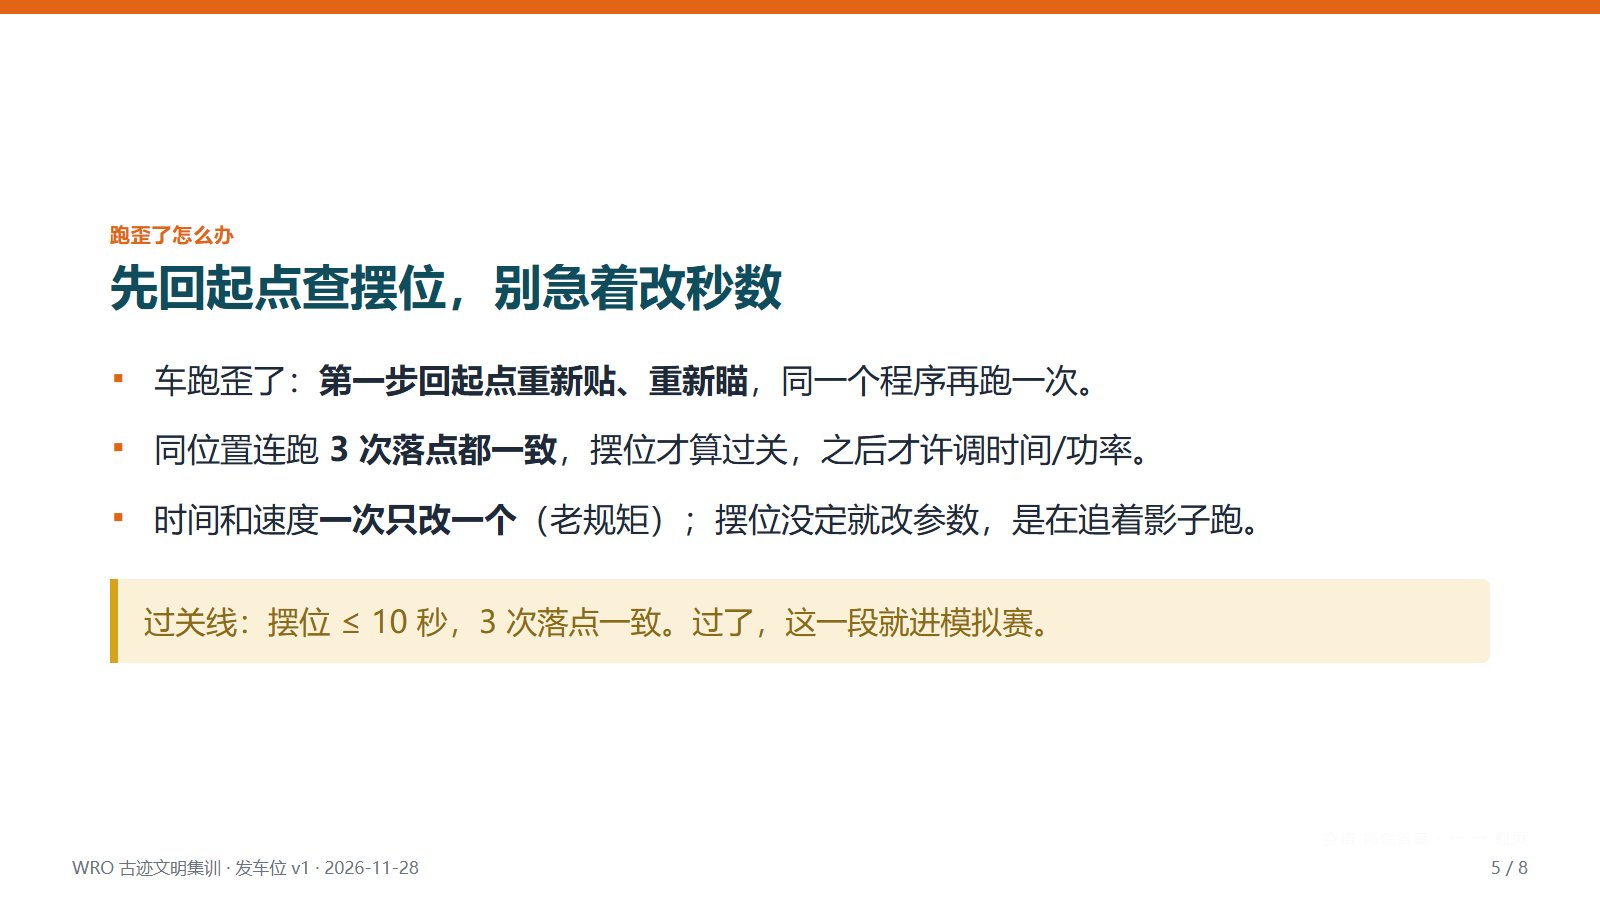
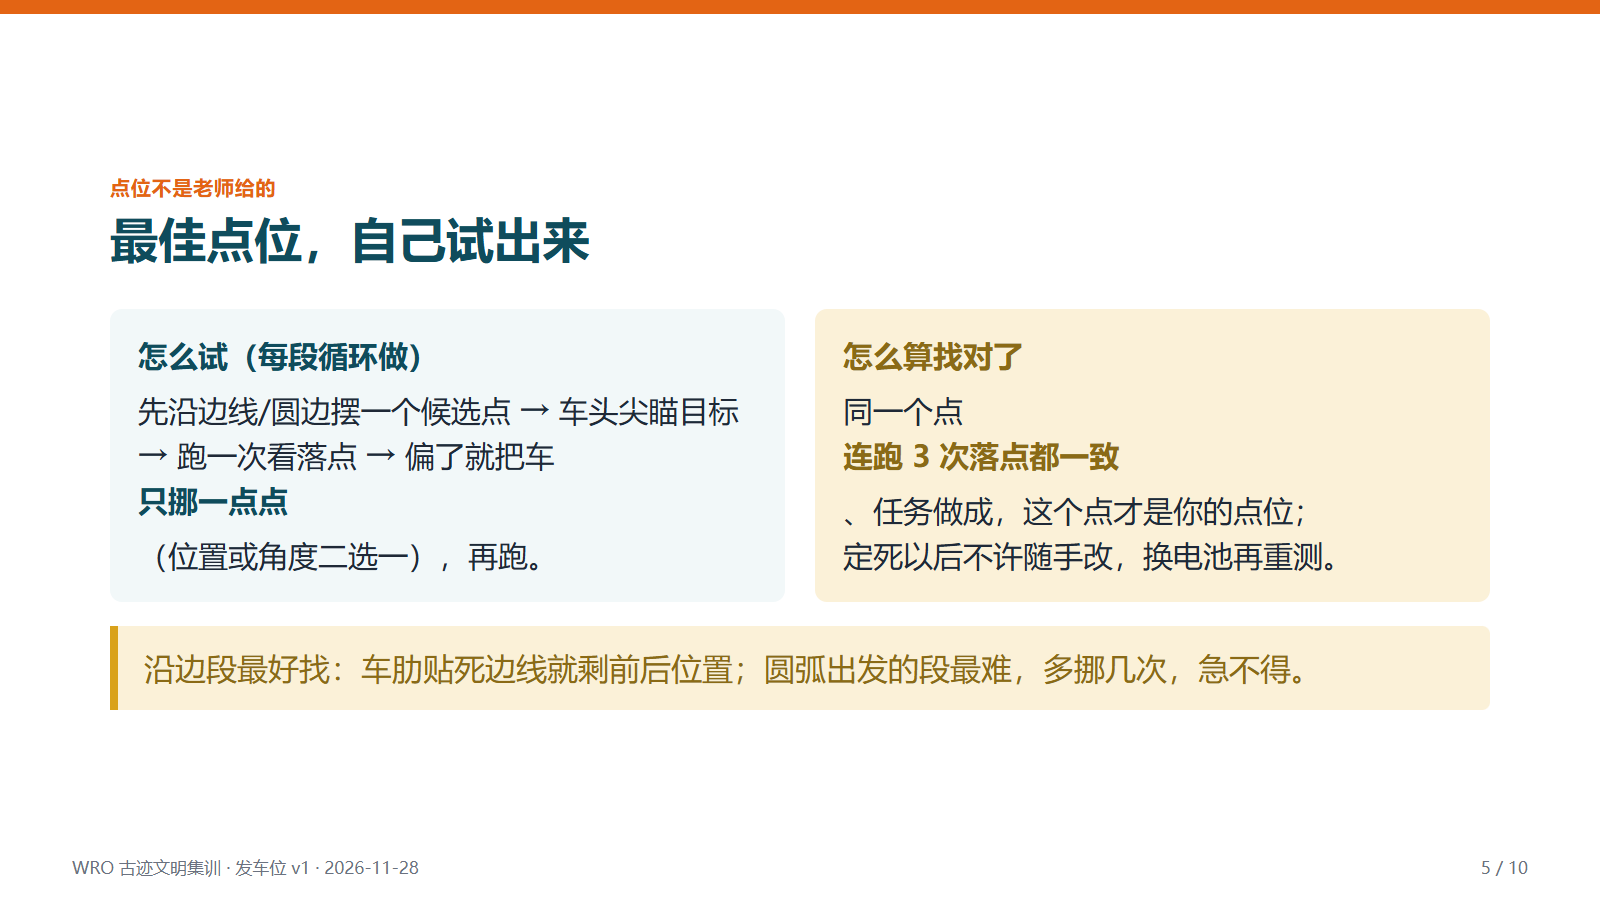
wro08 v2:补复习三问+收尾三问;点位改学生自己试(去掉A-I固定点);L胶带移出课件(仅教师备选思路);分工不提能力差异

Changed region(s): [[0.0625, 0.3422, 0.9375, 0.8089], [0.0625, 0.1867, 0.5, 0.3422]]

diff --git a/wro08.html b/wro08.html
@@ -22,6 +22,7 @@
   li:before{content:"▪";position:absolute;left:2px;top:-2px;color:#E36414;font-weight:700}
   .hint{font-size:31px;line-height:1.55;color:#8A6A16;background:#FBF1D8;
     border-left:8px solid #D9A21B;padding:18px 26px;margin:16px 0;border-radius:0 8px 8px 0}
+  .q .n{color:#E36414;font-weight:700;margin-right:14px}
   .ans{font-size:33px;line-height:1.5;color:#0F4C5C;background:#F2F8F9;
     border-left:8px solid #E36414;padding:18px 26px;margin:10px 0 18px 26px;border-radius:0 8px 8px 0}
   .cols{display:flex;gap:30px;margin-top:8px}
@@ -91,12 +92,24 @@
       <path d="M60 200 L150 150 L240 100" stroke="#BFD9DF" stroke-width="5" stroke-dasharray="10 8"/>
       <rect x="132" y="138" width="40" height="24" rx="4" fill="#E36414"/>
       <path d="M172 150 L188 142 L188 158 z" fill="#BFD9DF"/>
-      <path d="M120 210 h28 M120 210 v-28" stroke="#F5C518" stroke-width="9" stroke-linecap="round"/>
       <circle cx="240" cy="100" r="12" fill="#BFD9DF"/>
     </svg>
   </section>
 
-  <!-- 2 问题演示 -->
+  <!-- 2 复习三问 -->
+  <section class="slide">
+    <div class="bar"></div>
+    <div class="kicker">复习 · 上几节课</div>
+    <h1>三个问题</h1>
+    <div class="q"><span class="n">Q1</span>11 段路线分别从哪三个安全区出发？</div>
+    <div class="ans reveal">奇琴伊察（红 ①②⑥）、万神殿（蓝 ③④⑤）、吴哥窟/舒什塔尔（绿 ⑦–⑪）。</div>
+    <div class="q"><span class="n">Q2</span>调参数时，时间和速度两个数，一次改几个？</div>
+    <div class="ans reveal">一次只改一个，改完连跑 3 次看结果，不许两个数一起动。</div>
+    <div class="q"><span class="n">Q3</span>程序完全没动，两次跑的落点却不一样，最可能是什么变了？</div>
+    <div class="ans reveal">起点——车摆的位置和车头角度。今天就解决它。</div>
+  </section>
+
+  <!-- 3 问题演示 -->
   <section class="slide">
     <div class="bar"></div>
     <div class="kicker">先看一个现象</div>
@@ -131,24 +144,24 @@
     <div class="hint" style="margin-top:24px">摆好以后不许再碰车；按启动的人固定同一个人，同一姿势。</div>
   </section>
 
-  <!-- 4 胶带与天然参照 -->
+  <!-- 4 点位是试出来的 -->
   <section class="slide">
     <div class="bar"></div>
-    <div class="kicker">练习期的笨办法，最有效</div>
-    <h1>先贴 L 形美纹纸，练熟再撕掉</h1>
+    <div class="kicker">点位不是老师给的</div>
+    <h1>最佳点位，自己试出来</h1>
     <div class="cols">
-      <div class="card warn">
-        <b>练习时（可以贴）</b>
-        每个起点地上贴 L 形美纹纸：车屁股贴一条边、一个轮子贴另一条边，<b>一推到位，零思考</b>。
-        圆弧安全区出发的段，全靠它锁位置。
-      </div>
       <div class="card">
-        <b>比赛时（不能留）</b>
-        撕掉胶带，改贴场地天然的线和角；沿边段直接贴边线。
-        撕掉前把「车在圆边的哪个位置」记进脑子和路线图。
+        <b>怎么试（每段循环做）</b>
+        先沿边线/圆边摆一个候选点 → 车头尖瞄目标 → 跑一次看落点 →
+        偏了就把车<b>只挪一点点</b>（位置或角度二选一），再跑。
+      </div>
+      <div class="card warn">
+        <b>怎么算找对了</b>
+        同一个点<b>连跑 3 次落点都一致</b>、任务做成，这个点才是你的点位；<br>
+        定死以后不许随手改，换电池再重测。
       </div>
     </div>
-    <div class="hint reveal" style="margin-top:24px">顺序不能反：先靠胶带练出一模一样的摆法，再撕胶带复刻——不是一开始就凭感觉。</div>
+    <div class="hint" style="margin-top:24px">沿边段最好找：车肋贴死边线就剩前后位置；圆弧出发的段最难，多挪几次，急不得。</div>
   </section>
 
   <!-- 5 判断规则 -->
@@ -164,11 +177,11 @@
     <div class="hint">过关线：摆位 ≤ 10 秒，3 次落点一致。过了，这一段就进模拟赛。</div>
   </section>
 
-  <!-- 6 十一个发车位总览 -->
+  <!-- 6 十一段出发点+瞄准参考 -->
   <section class="slide pad" style="padding-top:44px;padding-bottom:40px">
     <div class="bar"></div>
-    <div class="kicker" style="margin-bottom:6px">11 个发车位（草表，练习时对真场地微调胶带点）</div>
-    <h1 style="font-size:34px;margin-bottom:12px">贴哪、瞄哪，一段一张图</h1>
+    <div class="kicker" style="margin-bottom:6px">11 段的出发点和瞄准目标（具体点位，自己在边线/圆边上试出来）</div>
+    <h1 style="font-size:34px;margin-bottom:12px">从哪个区出发，车头瞄什么</h1>
     <div class="poswrap">
       <!-- 红组 -->
       <div class="poscol cR">
@@ -185,27 +198,19 @@
           <text x="223" y="305" text-anchor="middle" font-size="12" font-weight="700" fill="#B45309">球2</text>
           <rect x="168" y="395" width="14" height="11" fill="#C9971B" stroke="#7C5A08"/>
           <text x="190" y="422" font-size="11" fill="#7C5A08">奖杯</text>
-          <path d="M118 356 L138 296" stroke="#D64545" stroke-width="2" stroke-dasharray="6 5"/>
-          <path d="M126 372 L203 292" stroke="#D64545" stroke-width="2" stroke-dasharray="6 5"/>
-          <path d="M162 372 L178 396" stroke="#D64545" stroke-width="2" stroke-dasharray="6 5"/>
-          <g fill="none" stroke="#F5C518" stroke-width="6" stroke-linecap="round">
-            <path d="M96 344 h26 M96 344 v26"/>
-            <path d="M104 360 h26 M104 360 v26"/>
-            <path d="M146 350 h24 M146 350 v22"/>
-          </g>
-          <g font-weight="700" font-size="16" fill="#D64545">
-            <circle cx="96" cy="344" r="13" fill="#D64545"/><text x="96" y="350" text-anchor="middle" fill="#fff" font-size="14">1</text>
-            <circle cx="104" cy="360" r="13" fill="#D64545"/><text x="104" y="366" text-anchor="middle" fill="#fff" font-size="14">2</text>
-            <circle cx="186" cy="420" r="13" fill="#D64545"/><text x="186" y="426" text-anchor="middle" fill="#fff" font-size="14">6</text>
-          </g>
-          <g font-size="14" font-weight="700" fill="#B8860B">
-            <text x="66" y="330">A</text><text x="138" y="392">B</text><text x="178" y="348">E</text>
+          <path d="M104 352 L138 296" stroke="#D64545" stroke-width="2.5" stroke-dasharray="7 5"/>
+          <path d="M112 372 L203 292" stroke="#D64545" stroke-width="2.5" stroke-dasharray="7 5"/>
+          <path d="M150 372 L176 398" stroke="#D64545" stroke-width="2.5" stroke-dasharray="7 5"/>
+          <g font-weight="700">
+            <circle cx="100" cy="348" r="13" fill="#D64545"/><text x="100" y="354" text-anchor="middle" fill="#fff" font-size="14">1</text>
+            <circle cx="108" cy="368" r="13" fill="#D64545"/><text x="108" y="374" text-anchor="middle" fill="#fff" font-size="14">2</text>
+            <circle cx="150" cy="368" r="13" fill="#D64545"/><text x="150" y="374" text-anchor="middle" fill="#fff" font-size="14">6</text>
           </g>
         </svg>
         <div class="poslist">
-          <div class="row"><span class="tag">1</span><span><span class="t1">贴胶带 A</span> <span class="t2">· 瞄球1圆心，直进推出、倒回</span></span></div>
-          <div class="row"><span class="tag">2</span><span><span class="t1">贴胶带 B</span> <span class="t2">· 瞄球2圆心，同①换球门</span></span></div>
-          <div class="row"><span class="tag">6</span><span><span class="t1">贴胶带 E</span> <span class="t2">· 瞄奖杯，两球落地后贴地慢推，杯要直立</span></span></div>
+          <div class="row"><span class="tag">1</span><span><span class="t1">奇圆内找点</span> <span class="t2">· 车头尖瞄球1圆心，直进推出、倒回</span></span></div>
+          <div class="row"><span class="tag">2</span><span><span class="t1">奇圆内找点</span> <span class="t2">· 瞄球2圆心，同①换球门</span></span></div>
+          <div class="row"><span class="tag">6</span><span><span class="t1">奇圆内找点</span> <span class="t2">· 瞄奖杯，两球落地后贴地慢推，杯要直立</span></span></div>
         </div>
       </div>
       <!-- 蓝组 -->
@@ -220,29 +225,24 @@
           <circle cx="58" cy="58" r="62" fill="#fff" fill-opacity=".85" stroke="#E36414" stroke-width="3"/>
           <text x="58" y="54" text-anchor="middle" font-size="15" font-weight="700" fill="#0F4C5C">万神殿</text>
           <circle cx="58" cy="392" r="62" fill="#fff" fill-opacity=".7" stroke="#E36414" stroke-width="2" stroke-dasharray="6 5"/>
+          <text x="58" y="388" text-anchor="middle" font-size="14" font-weight="700" fill="#0F4C5C">奇琴伊察</text>
           <rect x="168" y="121" width="12" height="12" fill="#B8A98F" stroke="#6E6250"/>
           <text x="186" y="131" font-size="11" fill="#6E6250">石柱</text>
-          <path d="M72 330 L72 122" stroke="#3B6FB6" stroke-width="2.5"/>
-          <path d="M104 100 L162 122" stroke="#3B6FB6" stroke-width="2" stroke-dasharray="6 5"/>
-          <path d="M110 104 L250 192" stroke="#3B6FB6" stroke-width="2" stroke-dasharray="6 5"/>
-          <rect x="2" y="318" width="14" height="24" fill="none" stroke="#F5C518" stroke-width="5"/>
-          <g fill="none" stroke="#F5C518" stroke-width="6" stroke-linecap="round">
-            <path d="M92 92 h24 M92 92 v22"/>
-            <path d="M118 110 h24 M118 110 v-20"/>
-          </g>
-          <g font-weight="700" fill="#3B6FB6">
+          <path d="M72 330 L72 122" stroke="#3B6FB6" stroke-width="3"/>
+          <path d="M104 100 L162 122" stroke="#3B6FB6" stroke-width="2.5" stroke-dasharray="7 5"/>
+          <path d="M110 104 L250 192" stroke="#3B6FB6" stroke-width="2.5" stroke-dasharray="7 5"/>
+          <rect x="1" y="315" width="12" height="30" fill="none" stroke="#3B6FB6" stroke-width="4"/>
+          <g font-weight="700">
             <circle cx="58" cy="225" r="13" fill="#3B6FB6"/><text x="58" y="231" text-anchor="middle" fill="#fff" font-size="14">3</text>
             <circle cx="132" cy="92" r="13" fill="#3B6FB6"/><text x="132" y="98" text-anchor="middle" fill="#fff" font-size="14">4</text>
             <circle cx="186" cy="140" r="13" fill="#3B6FB6"/><text x="186" y="146" text-anchor="middle" fill="#fff" font-size="14">5</text>
           </g>
-          <g font-size="14" font-weight="700" fill="#B8860B">
-            <text x="24" y="356">边线</text><text x="122" y="80">C</text><text x="150" y="100">D</text>
-          </g>
+          <text x="22" y="362" font-size="13" font-weight="700" fill="#3B6FB6">左边线</text>
         </svg>
         <div class="poslist">
-          <div class="row"><span class="tag">3</span><span><span class="t1">车左肋贴死左边线</span> <span class="t2">· 边与线平行，直上到万神殿</span></span></div>
-          <div class="row"><span class="tag">4</span><span><span class="t1">贴胶带 C</span> <span class="t2">· 瞄石柱，伸臂勾、倒带回、柱直立</span></span></div>
-          <div class="row"><span class="tag">5</span><span><span class="t1">贴胶带 D</span> <span class="t2">· 带珍宝瞄博物馆圈中心直进</span></span></div>
+          <div class="row"><span class="tag">3</span><span><span class="t1">车左肋贴死左边线</span> <span class="t2">· 边与线平行，只剩前后要试，直上万神殿</span></span></div>
+          <div class="row"><span class="tag">4</span><span><span class="t1">万圆内找点</span> <span class="t2">· 瞄石柱，伸臂勾、倒带回、柱直立</span></span></div>
+          <div class="row"><span class="tag">5</span><span><span class="t1">万圆内找点</span> <span class="t2">· 带珍宝瞄博物馆圈中心直进</span></span></div>
         </div>
       </div>
       <!-- 绿组 -->
@@ -267,39 +267,31 @@
           <g fill="#F5C518" stroke="#8A6A16" stroke-width="1.2">
             <circle cx="575" cy="30" r="7"/><circle cx="586" cy="78" r="7"/>
           </g>
-          <path d="M496 356 L460 344" stroke="#3E8E55" stroke-width="2" stroke-dasharray="6 5"/>
-          <path d="M500 338 L522 186" stroke="#3E8E55" stroke-width="2" stroke-dasharray="6 5"/>
-          <path d="M582 332 L582 120" stroke="#3E8E55" stroke-width="2.5"/>
-          <path d="M498 98 L372 90" stroke="#3E8E55" stroke-width="2" stroke-dasharray="6 5"/>
-          <path d="M492 106 L368 190" stroke="#3E8E55" stroke-width="2" stroke-dasharray="6 5"/>
-          <rect x="586" y="318" width="12" height="24" fill="none" stroke="#F5C518" stroke-width="5"/>
-          <g fill="none" stroke="#F5C518" stroke-width="6" stroke-linecap="round">
-            <path d="M484 348 h22 M484 348 v-20"/>
-            <path d="M498 322 h20 M498 322 v-20"/>
-            <path d="M492 96 h-22 M492 96 v22"/>
-            <path d="M472 128 h-20 M472 128 v-18"/>
-          </g>
-          <g font-weight="700" fill="#3E8E55">
+          <path d="M496 356 L460 344" stroke="#3E8E55" stroke-width="2.5" stroke-dasharray="7 5"/>
+          <path d="M500 338 L522 186" stroke="#3E8E55" stroke-width="2.5" stroke-dasharray="7 5"/>
+          <path d="M582 332 L582 120" stroke="#3E8E55" stroke-width="3"/>
+          <path d="M498 98 L372 90" stroke="#3E8E55" stroke-width="2.5" stroke-dasharray="7 5"/>
+          <path d="M492 106 L368 190" stroke="#3E8E55" stroke-width="2.5" stroke-dasharray="7 5"/>
+          <rect x="587" y="315" width="12" height="30" fill="none" stroke="#3E8E55" stroke-width="4"/>
+          <g font-weight="700">
             <circle cx="480" cy="330" r="12" fill="#3E8E55"/><text x="480" y="335" text-anchor="middle" fill="#fff" font-size="13">7</text>
             <circle cx="486" cy="252" r="12" fill="#3E8E55"/><text x="486" y="257" text-anchor="middle" fill="#fff" font-size="13">8</text>
             <circle cx="586" cy="300" r="12" fill="#3E8E55"/><text x="586" y="305" text-anchor="middle" fill="#fff" font-size="13">9</text>
             <circle cx="440" cy="66" r="12" fill="#3E8E55"/><text x="440" y="71" text-anchor="middle" fill="#fff" font-size="13">10</text>
             <circle cx="420" cy="150" r="12" fill="#3E8E55"/><text x="420" y="155" text-anchor="middle" fill="#fff" font-size="13">11</text>
           </g>
-          <g font-size="13" font-weight="700" fill="#B8860B">
-            <text x="512" y="366">F</text><text x="524" y="316">G</text><text x="500" y="92">H</text><text x="442" y="122">I</text><text x="560" y="106">边线</text>
-          </g>
+          <text x="556" y="362" font-size="13" font-weight="700" fill="#3E8E55">右边线</text>
         </svg>
         <div class="poslist">
-          <div class="row"><span class="tag">7</span><span><span class="t1">贴胶带 F</span> <span class="t2">· 瞄湖泊标记，原套路倒回</span></span></div>
-          <div class="row"><span class="tag">8</span><span><span class="t1">贴溪边胶带 G</span> <span class="t2">· 瞄闸1洋红块推离水道</span></span></div>
-          <div class="row"><span class="tag">9</span><span><span class="t1">车右肋贴死右边线</span> <span class="t2">· 直上到舒什塔尔</span></span></div>
-          <div class="row"><span class="tag">10</span><span><span class="t1">贴胶带 H</span> <span class="t2">· 瞄闸2洋红块，水车别碰</span></span></div>
-          <div class="row"><span class="tag">11</span><span><span class="t1">贴胶带 I</span> <span class="t2">· 带珍宝瞄博物馆圈直进</span></span></div>
+          <div class="row"><span class="tag">7</span><span><span class="t1">吴圆内找点</span> <span class="t2">· 瞄湖泊标记，原套路倒回</span></span></div>
+          <div class="row"><span class="tag">8</span><span><span class="t1">吴圆内找点</span> <span class="t2">· 沿边上去瞄闸1洋红块，推离水道</span></span></div>
+          <div class="row"><span class="tag">9</span><span><span class="t1">车右肋贴死右边线</span> <span class="t2">· 只剩前后要试，直上舒什塔尔</span></span></div>
+          <div class="row"><span class="tag">10</span><span><span class="t1">舒圆内找点</span> <span class="t2">· 瞄闸2洋红块，区内水车别碰</span></span></div>
+          <div class="row"><span class="tag">11</span><span><span class="t1">舒圆内找点</span> <span class="t2">· 带珍宝瞄博物馆圈直进</span></span></div>
         </div>
       </div>
     </div>
-    <div class="tapenote">黄色 └ 形 = 练习用美纹纸卡位；虚线 = 车头尖瞄的方向。A–I 九个胶带点，两人练习时按真场地微调后定死。</div>
+    <div class="tapenote">虚线 = 车头尖瞄的方向；编号点只是大致出发区。真正的点位自己沿圆边一点点挪，连跑 3 次落点一致才作数。</div>
   </section>
 
   <!-- 7 课堂流程 -->
@@ -309,27 +301,40 @@
     <h1>讲 10 分钟，剩下全是练</h1>
     <div class="flow">
       <div class="step"><span class="t">10′</span><b>讲+演</b><br>歪车演示，一贴一瞄，胶带怎么贴。</div>
-      <div class="step"><span class="t">40′</span><b>分段练</b><br>每人 3 段，贴→瞄→连跑 3 次落点一致，过了换下一段。</div>
-      <div class="step"><span class="t">40′</span><b>模拟赛</b><br>撕胶带按比赛摆位，11 段接力跑全，按 3 次成 2 记分。</div>
+      <div class="step"><span class="t">40′</span><b>分段练</b><br>每人 3 段，沿边/圆边试点位→瞄目标→连跑 3 次落点一致，过了换下一段。</div>
+      <div class="step"><span class="t">40′</span><b>模拟赛</b><br>按比赛规则摆位（地上不贴任何标记），11 段接力跑全，3 次成 2 记分。</div>
     </div>
     <div class="hint">两人分工照老规矩：一人操作、一人看表记录（背面表格），每轮交换。</div>
   </section>
 
-  <!-- 8 结尾 -->
+  <!-- 8 收尾三问 -->
+  <section class="slide">
+    <div class="bar"></div>
+    <div class="kicker">收尾</div>
+    <h1>三个问题</h1>
+    <div class="q"><span class="n">Q1</span>怎么判断一个出发点找对了？</div>
+    <div class="ans reveal">同一个点连跑 3 次落点一致、任务做成；一次成不算。</div>
+    <div class="q"><span class="n">Q2</span>跑歪了，第一反应是改秒数吗？</div>
+    <div class="ans reveal">不是。先回起点重新摆、重新瞄，同程序再跑；摆位没定就调参数，永远追不准。</div>
+    <div class="q"><span class="n">Q3</span>为什么车头要直接瞄目标中心，而不是记一个角度数？</div>
+    <div class="ans reveal">两点一线谁摆都一样；角度数字靠估，每次都有误差，越跑越偏。</div>
+  </section>
+
+  <!-- 9 结尾 -->
   <section class="slide cover">
     <div class="bar"></div>
     <div>
       <div class="kicker">今天的过关线</div>
-      <h1>10 秒摆好，3 次一样</h1>
+      <h1>点位自己试，3 次一样</h1>
       <div class="sub">程序是死的，起点是活的——<br>谁的车每次都从同一个点、同一个方向出发，谁就稳。</div>
     </div>
     <svg viewBox="0 0 300 300" style="width:340px;height:340px" fill="none">
       <circle cx="150" cy="150" r="110" stroke="#BFD9DF" stroke-width="4"/>
-      <path d="M120 210 h30 M120 210 v-30" stroke="#F5C518" stroke-width="10" stroke-linecap="round"/>
-      <rect x="132" y="146" width="40" height="24" rx="4" fill="#E36414"/>
-      <path d="M172 158 L188 150 L188 166 z" fill="#BFD9DF"/>
-      <path d="M150 146 L150 60" stroke="#BFD9DF" stroke-width="4" stroke-dasharray="9 7"/>
+      <circle cx="150" cy="150" r="6" fill="#E36414"/>
+      <path d="M150 150 L150 60" stroke="#BFD9DF" stroke-width="4" stroke-dasharray="9 7"/>
       <circle cx="150" cy="52" r="9" fill="#BFD9DF"/>
+      <rect x="116" y="200" width="68" height="20" rx="4" fill="#E36414" opacity=".35"/>
+      <rect x="126" y="214" width="48" height="14" rx="3" fill="#E36414" opacity=".6"/>
     </svg>
   </section>
 
